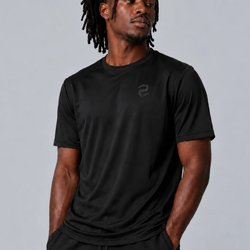
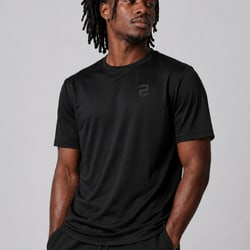
Men's T-Shirt: regraded set shots removed; back to the 2 Oct trio (same as 2eadb93)

diff --git a/product.html b/product.html
@@ -338,7 +338,7 @@ const PRODUCTS={
   'low-impact-bra':{name:'Low Impact Sports Bra',gender:"Women's",price:'KES 4,450',priceVal:4450,image:'images/low-impact-bra.jpg',images:['images/low-impact-bra.jpg','images/low-impact-bra-front.jpg','images/low-impact-bra-side.jpg','images/low-impact-bra-back.jpg'],sizes:['S','M','L','XL','XXL'],desc:"Lightweight and breathable for yoga, pilates, stretching, and low-intensity sessions. Scoop neck with a clean racerback silhouette. Removable padding, soft-touch fabric.",details:['Light support rating','Racerback silhouette','Scoop neckline','Removable padding','Soft-touch four-way stretch fabric','Fabric: Body Fabric: 82% Polyamide, 18% Elastane / Mesh: 88% Polyamide, 12% Elastane Mesh']},
   'jacket-w':{name:"Women's Jacket",gender:"Women's",price:'KES 7,200',priceVal:7200,image:'images/jacket-w.jpg',images:['images/jacket-w.jpg','images/jacket-w-front-angle.jpg','images/jacket-w-back-angle.jpg','images/jacket-w-back.jpg'],sizes:['S','M','L','XL','XXL'],desc:"A versatile training jacket built for warm-ups, cool-downs, and everything in between. Two side pockets and a straight fit.",details:['Full-length zip front','Two side zip pockets','Straight fit','Fabric: 100% Polyester']},
   'tshirt-w':{name:"Women's T-Shirt",gender:"Women's",price:'KES 4,200',priceVal:4200,image:'images/tshirt-w.jpg',images:['images/tshirt-w.jpg','images/tshirt-w-front-angle.jpg','images/tshirt-w-back.jpg','images/tshirt-w-detail.jpg','images/tshirt-w-movement.jpg'],sizes:['S','M','L','XL','XXL'],desc:"A clean training tee built for movement. Lightweight moisture-wicking fabric, a relaxed fit that stays in place, and a full-length hem. Wear it to the gym, on a run, or straight after.",details:['Moisture-wicking fabric','Relaxed fit, full length','Crew neck','Flatlock shoulder seams','Fabric: 89% Polyester, 11% Elastane']},
-  'tshirt-m':{name:"Men's T-Shirt",gender:"Men's",price:'KES 4,200',priceVal:4200,image:'images/tshirt-m.jpg',images:['images/tshirt-m.jpg','images/tshirt-m-set-side.jpg','images/tshirt-m-set-back.jpg','images/tshirt-m-front.jpg','images/tshirt-m-side.jpg','images/tshirt-m-back.jpg'],sizes:['S','M','L','XL','XXL'],desc:"A training tee that does its job without getting in the way. Sweat-wicking fabric, a clean regular fit, and a slightly dropped hem. Equally at home in the gym or on the way there.",details:['Moisture-wicking fabric','Regular fit with dropped hem','Crew neck','Flatlock shoulder seams','Fabric: 89% Polyester, 11% Elastane']},
+  'tshirt-m':{name:"Men's T-Shirt",gender:"Men's",price:'KES 4,200',priceVal:4200,image:'images/tshirt-m.jpg',images:['images/tshirt-m.jpg','images/tshirt-m-side.jpg','images/tshirt-m-back.jpg'],sizes:['S','M','L','XL','XXL'],desc:"A training tee that does its job without getting in the way. Sweat-wicking fabric, a clean regular fit, and a slightly dropped hem. Equally at home in the gym or on the way there.",details:['Moisture-wicking fabric','Regular fit with dropped hem','Crew neck','Flatlock shoulder seams','Fabric: 89% Polyester, 11% Elastane']},
   'quarter-zip-m':{name:"Men's Quarter Zip",gender:"Men's",price:'KES 5,600',priceVal:5600,image:'images/quarter-zip-m.jpg',images:['images/quarter-zip-m.jpg','images/quarter-zip-m-front.jpg','images/quarter-zip-m-side.jpg','images/quarter-zip-m-seated.jpg'],sizes:['S','M','L','XL','XXL'],desc:"The warm-up layer you'll reach for every session. Quarter-zip collar, flatlock seams, and a clean minimal aesthetic. Lightweight enough to keep on during training.",details:['Quarter-zip collar','Flatlock seam construction','Regular straight fit','Moisture-wicking fabric','Fabric: 83% Polyester, 17% Elastane']},
   'shorts-m':{name:"Men's Shorts",gender:"Men's",price:'KES 6,050',priceVal:6050,image:'images/shorts-m.jpg',images:['images/shorts-m.jpg','images/shorts-m-side.jpg','images/shorts-m-back.jpg'],sizes:['S','M','L','XL','XXL'],desc:"Lightweight training shorts with an internal compression liner. Elastic waistband with drawcord. Side slit hem for full range of movement. Rear zip pocket.",details:['Internal compression liner','Elastic waistband with drawcord','Side slit hem','Rear zip pocket','Quick-dry fabric','Fabric: Outer Body: 92% Polyester, 8% Elastane / Outer Insert Fabric: 88% Polyester, 12% Elastane / Inner Layer Fabric: 88% Polyamide, 12% Elastane']},
   'training-pants-m':{name:"Training Pants",gender:"Men's",price:'KES 6,600',priceVal:6600,image:'images/training-pants-m.jpg',images:['images/training-pants-m.jpg','images/training-pants-m-side.jpg','images/training-pants-m-back.jpg'],sizes:['S','M','L','XL','XXL'],desc:"Full-length training pants built for early mornings and cool weather. Tapered fit, ankle zips for easy on/off, and a secure waistband.",details:['Tapered running fit','Ankle zip cuffs','Elastic waistband with drawcord','Two zip side pockets','Fabric: Main Fabric: 75% Polyamide, 25% Elastane / Insert Fabric: 88% Polyester, 12% Elastane']},

diff --git a/collections.html b/collections.html
@@ -201,7 +201,7 @@
       <div class="prod-card fu d1" data-gender="men">
         <div class="relative" style="aspect-ratio:3/4;overflow:hidden;background:#f3f4f6;">
           <img src="images/tshirt-m.jpg" alt="Men's T-Shirt" style="width:100%;height:100%;object-fit:cover;object-position:center;display:block;">
-          <img src="images/tshirt-m-set-side.jpg" alt="" aria-hidden="true" class="card-hover-img" loading="lazy" decoding="async">
+          <img src="images/tshirt-m-side.jpg" alt="" aria-hidden="true" class="card-hover-img" loading="lazy" decoding="async">
           <button class="add-btn" onclick="addToBag('tshirt-m','Men\'s T-Shirt',4200)">Add to Bag</button>
         </div>
         <div class="p-4">
